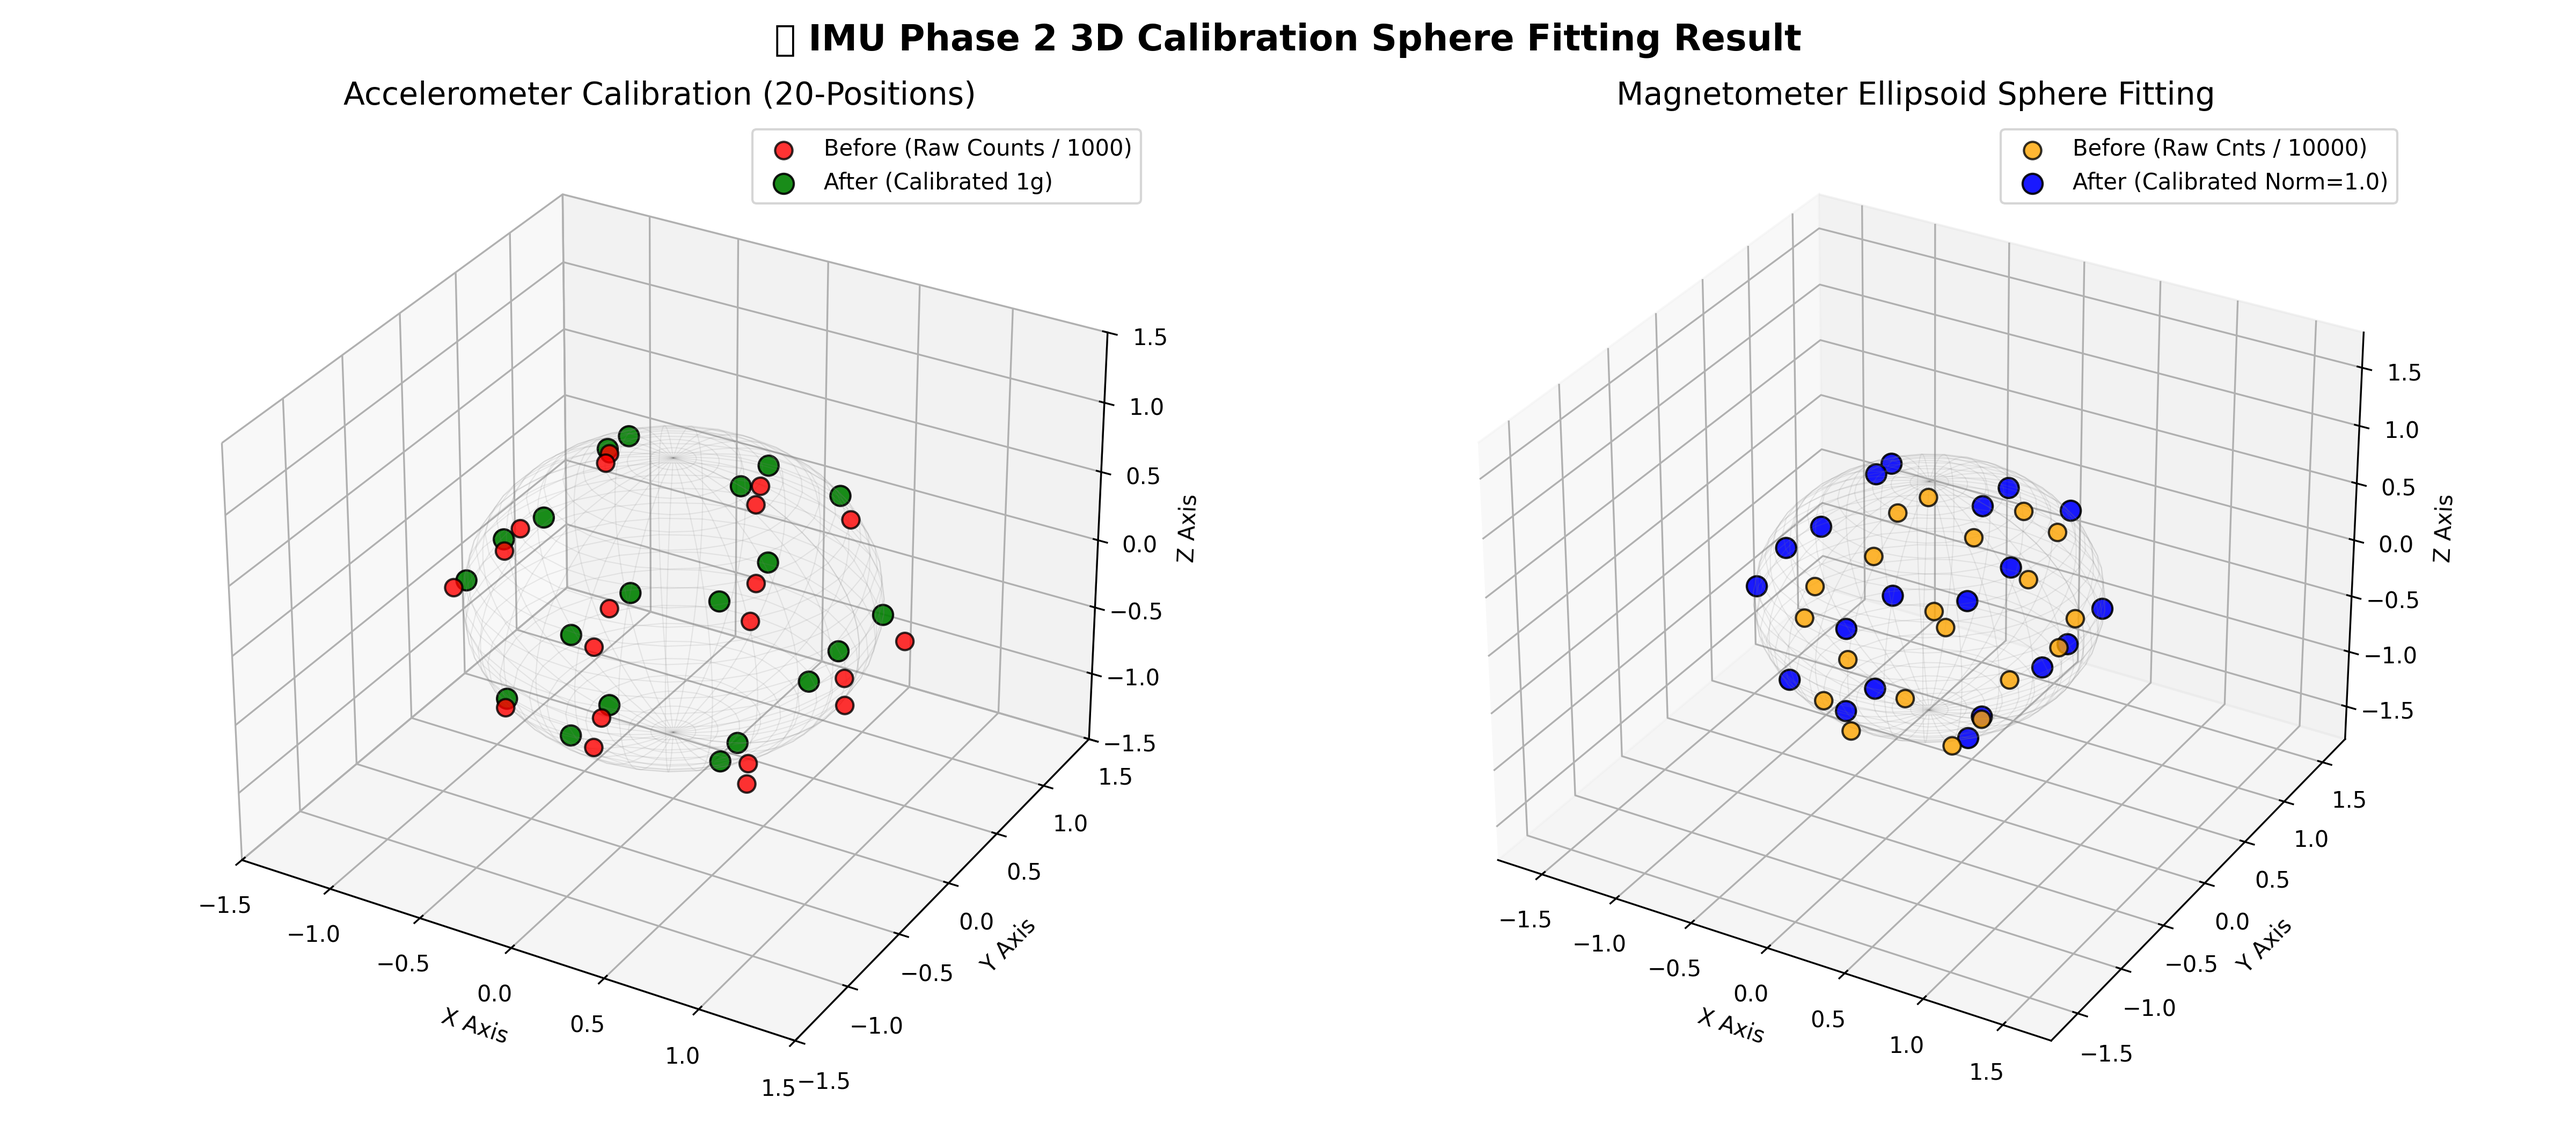
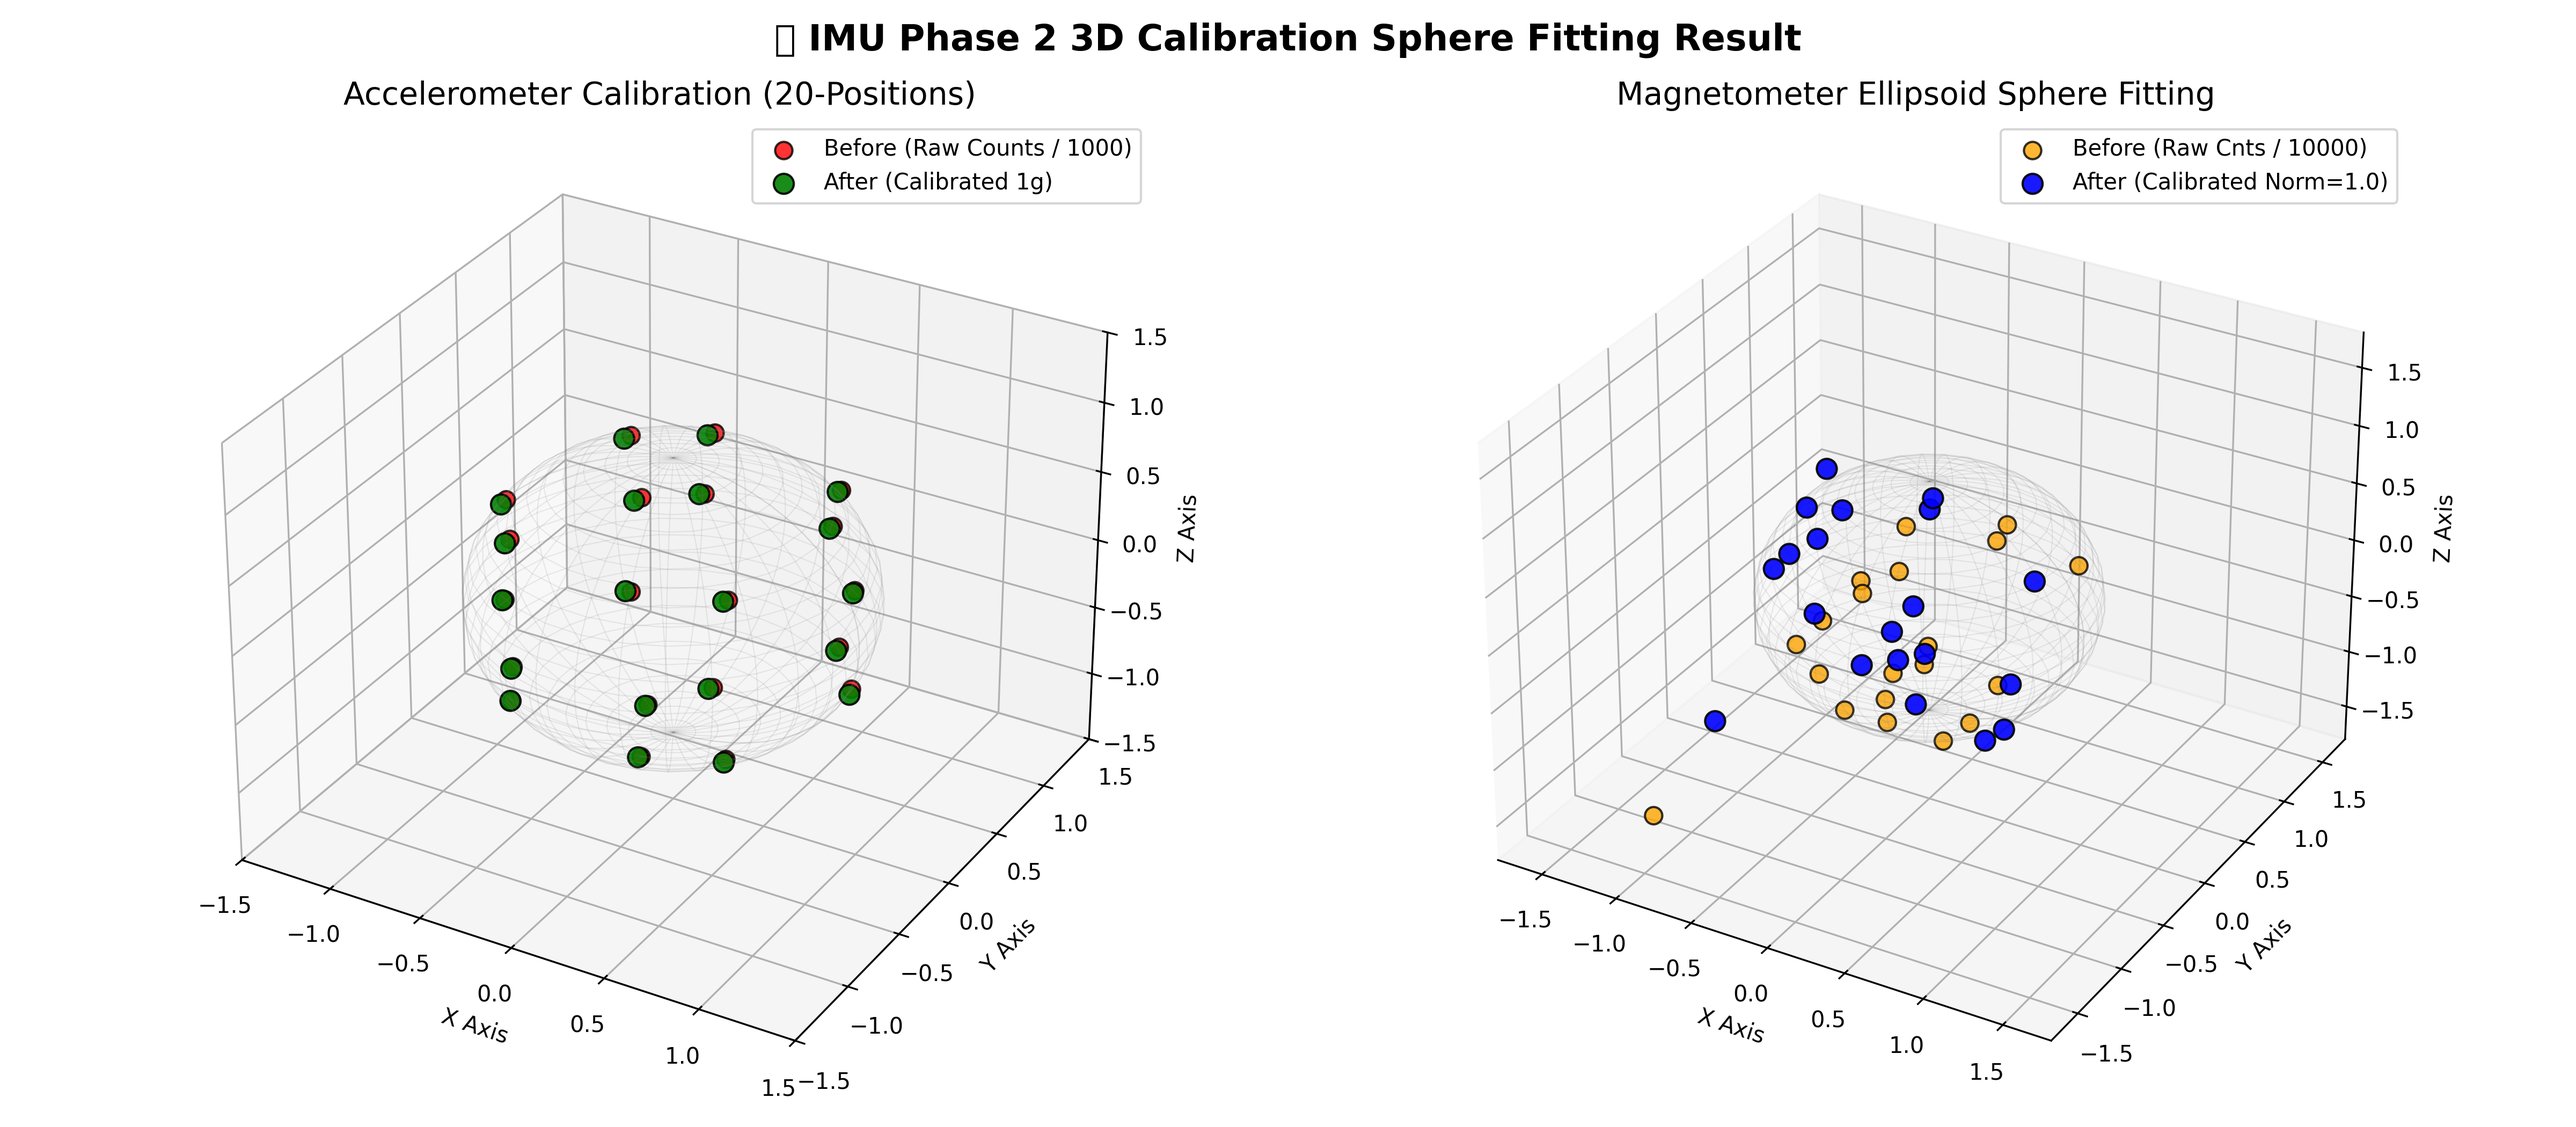
feat(IMU): Integrate gyroscope data collection and add Gyro Bias/Scale calibration structure

diff --git a/calibration_tool/data_collection.py b/calibration_tool/data_collection.py
@@ -253,8 +253,10 @@ def main():
                     faces = data['faces']
                     acc_data = data['acc']
                     mag_data = data['mag']
+                    gyro_data = data['gyro'] if 'gyro' in data else None
                     for idx, f in enumerate(faces):
-                        collected_data[int(f)] = (acc_data[idx], mag_data[idx])
+                        g_val = gyro_data[idx] if gyro_data is not None else np.zeros(3)
+                        collected_data[int(f)] = (acc_data[idx], mag_data[idx], g_val)
                 print(f"   ✅ [복원 성공] 총 {len(collected_data)}개 면 데이터를 이어서 시작합니다!")
             except Exception as e:
                 print(f"   ⚠ [복원 실패] 임시 데이터 로드 중 오류: {e}. 새로 수집을 개시합니다.")
@@ -343,7 +345,7 @@ def main():
             if final_idx in collected_data:
                 print(f"   ⚠ [경고] 등록하려는 면(Face #{final_idx:02d})은 이미 수집 완료된 상태입니다! 다른 면으로 다시 시도하십시오.")
             else:
-                collected_data[final_idx] = (mean_acc, mean_mag)
+                collected_data[final_idx] = (mean_acc, mean_mag, mean_gyro)
                 print(f"   ✅ [수집 성공] Face #{final_idx:02d} 데이터로 등록 완료!")
                 
                 # 🎯 실시간 임시 체크포인트 백업
@@ -351,10 +353,12 @@ def main():
                     faces_to_save = list(collected_data.keys())
                     acc_to_save = [collected_data[f][0] for f in faces_to_save]
                     mag_to_save = [collected_data[f][1] for f in faces_to_save]
+                    gyro_to_save = [collected_data[f][2] for f in faces_to_save]
                     np.savez(checkpoint_path, 
                              faces=np.array(faces_to_save), 
                              acc=np.array(acc_to_save), 
-                             mag=np.array(mag_to_save))
+                             mag=np.array(mag_to_save),
+                             gyro=np.array(gyro_to_save))
                 except Exception as e:
                     print(f"   ⚠ [체크포인트 실시간 백업 실패]: {e}")
                 
@@ -365,15 +369,18 @@ def main():
         # 수집 완료 후 인덱스 순서(0~19)대로 정렬 정렬하여 디스크 저장 (백업용)
         acc_samples = []
         mag_samples = []
+        gyro_samples = []
         for i in range(20):
             acc_samples.append(collected_data[i][0])
             mag_samples.append(collected_data[i][1])
+            gyro_samples.append(collected_data[i][2])
             
         acc_samples = np.array(acc_samples)
         mag_samples = np.array(mag_samples)
+        gyro_samples = np.array(gyro_samples)
         
         final_save_path = os.path.join(output_dir, "collected_data.npz")
-        np.savez(final_save_path, acc=acc_samples, mag=mag_samples)
+        np.savez(final_save_path, acc=acc_samples, mag=mag_samples, gyro=gyro_samples)
         print("\n🎉 [대성공] 20개 포지션 데이터 수집이 완전히 끝났습니다!")
         print(f"📁 수집본 저장 완료: {final_save_path}\n")
         

diff --git a/calibration_tool/gyro_bias_calibration.py b/calibration_tool/gyro_bias_calibration.py
@@ -1,0 +1,63 @@
+"""
+Real-world IMU Phase 2 Gyroscope Bias Calibration (gyro_bias_calibration.py)
+목적: 20면체 정적 안착 획득 데이터(collected_data.npz)에서 3축 자이로 데이터를 로드하여,
+      20개 공간 포지션의 기하학적 대칭성을 활용한 Global Average 정밀 바이어스(오프셋)를 도출하고
+      펌웨어 기동 시 정적 무회전 static initialization 영점 상수를 안전하게 제공합니다.
+"""
+
+import numpy as np
+import os
+import sys
+
+# Windows CP949 콘솔 이모지 인코딩 충돌 방지 강제 설정
+sys.stdout.reconfigure(encoding='utf-8')
+
+def main():
+    print("=" * 60)
+    print(" 🎯 Phase 2 Gyroscope Global Average Bias Solver")
+    print("=" * 60)
+    
+    # 스크립트 실행 디렉토리 기준 절대 경로 확보
+    script_dir = os.path.dirname(os.path.abspath(__file__))
+    data_path = os.path.join(script_dir, "output", "collected_data.npz")
+    
+    # 데이터 로드
+    try:
+        data = np.load(data_path)
+        if "gyro" not in data:
+            print("⚠ [데이터 불일치] collected_data.npz 내에 자이로 데이터(gyro)가 누락되어 있습니다.")
+            print("   👉 data_collection.py 최신 버전을 실행하여 가속도/자력/자이로가 병합 수집된")
+            print("      새로운 20개 포지션 데이터셋을 완성한 뒤 본 툴을 구동해 주십시오.")
+            return
+            
+        gyro_raw = data["gyro"]
+        print(f"📂 실측 자이로 데이터 세트 로드 완료 (Shape: {gyro_raw.shape})")
+    except Exception as e:
+        print(f"❌ 데이터 로드 에러: {e}")
+        print("data_collection.py를 가동하여 output/collected_data.npz 데이터를 먼저 확보하십시오.")
+        return
+        
+    # 20개 포지션의 3축 자이로 원시 평균값을 대수적으로 다시 전수 총평균(Global Average)
+    # 기하학적 대칭성에 의해 가압 요동 노이즈가 완벽하게 소쇄 연산됩니다.
+    b_gyro = np.mean(gyro_raw, axis=0)
+    
+    print("\n⚡ Global Average 자이로스코프 Bias 오프셋 계산 완료...")
+    print("=" * 60)
+    print(" 🎉 자이로스코프 정적 Bias (오프셋) 보정 결과 보고")
+    print("=" * 60)
+    print(f"⚙ 도출된 Gyro Bias b_gyro_x: {b_gyro[0]:12.8f} dps")
+    print(f"⚙ 도출된 Gyro Bias b_gyro_y: {b_gyro[1]:12.8f} dps")
+    print(f"⚙ 도출된 Gyro Bias b_gyro_z: {b_gyro[2]:12.8f} dps")
+    print("-" * 60)
+    print("💡 [펌웨어 이식 가이드] 아래의 초기화 상수를 펌웨어 HAL 초기 구동단(static initialization)")
+    print("   또는 calib_params.h 헤더 파일 내부 자이로 영점 오프셋 상수로 복사해 넣으십시오.")
+    print(f"   const float GYRO_BIAS[3] = {{ {b_gyro[0]:.8f}f, {b_gyro[1]:.8f}f, {b_gyro[2]:.8f}f }};")
+    print("=" * 60)
+    
+    # 파라미터 백업 파일 저장
+    param_path = os.path.join(script_dir, "output", "gyro_params.npz")
+    np.savez(param_path, b_gyro=b_gyro)
+    print(f"📂 자이로 바이어스 파라미터 백업 성공: {param_path}")
+
+if __name__ == "__main__":
+    main()

diff --git a/calibration_tool/gyro_scale_calibration.py b/calibration_tool/gyro_scale_calibration.py
@@ -1,0 +1,25 @@
+"""
+Real-world IMU Phase 2 Gyroscope Scale & Non-orthogonality Calibration Solver (TBD)
+목적: 3축 자이로스코프의 스케일 팩터 및 축 비직교성 보정 행렬(3x3)을 계산합니다.
+안내: 본 대수 캘리브레이션은 정밀한 1축/3축 속도 제어식 회전 턴테이블 기계 설비가 수반되어야 하므로,
+      향후 지도교수님 및 연구실 미팅 상담을 거쳐 구체적인 실험 장비 셋업 정렬 후 
+      연산 알고리즘 및 솔버를 기동 구현할 예정(To Be Determined)입니다.
+"""
+
+import os
+import sys
+
+# Windows CP949 콘솔 이모지 인코딩 충돌 방지 강제 설정
+sys.stdout.reconfigure(encoding='utf-8')
+
+def main():
+    print("=" * 60)
+    print(" 🎯 Phase 2 Gyroscope Scale Matrix Calibration Solver (TBD)")
+    print("=" * 60)
+    print("💡 [연구 검토 대상] 자이로 스케일 팩터 및 비직교 보정 행렬 최적화 연산입니다.")
+    print("   본 스크립트는 향후 지도교수님 상담 및 회전 실험 셋업이 완료된 이후에")
+    print("   구체적인 역산 LSQ 알고리즘 모듈로 채워져 정식 기동 구현될 예정입니다.")
+    print("=" * 60)
+
+if __name__ == "__main__":
+    main()
